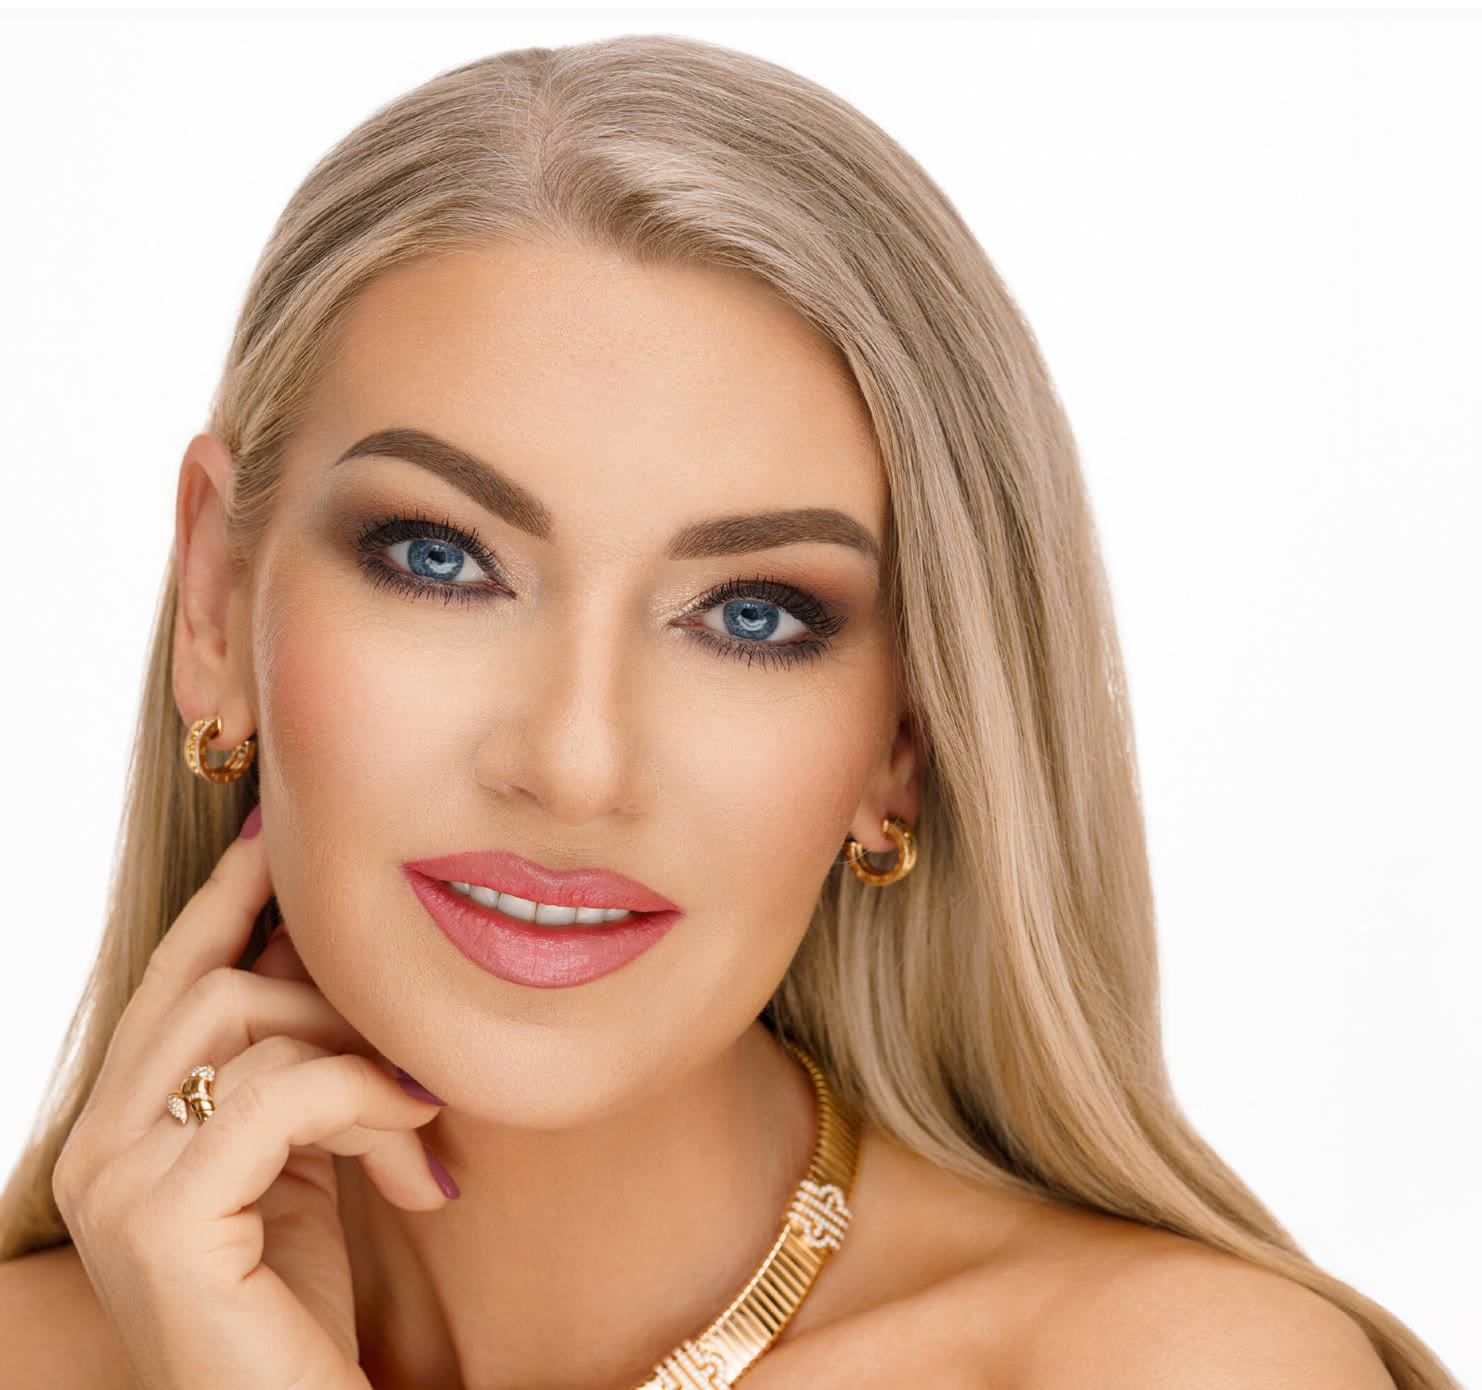
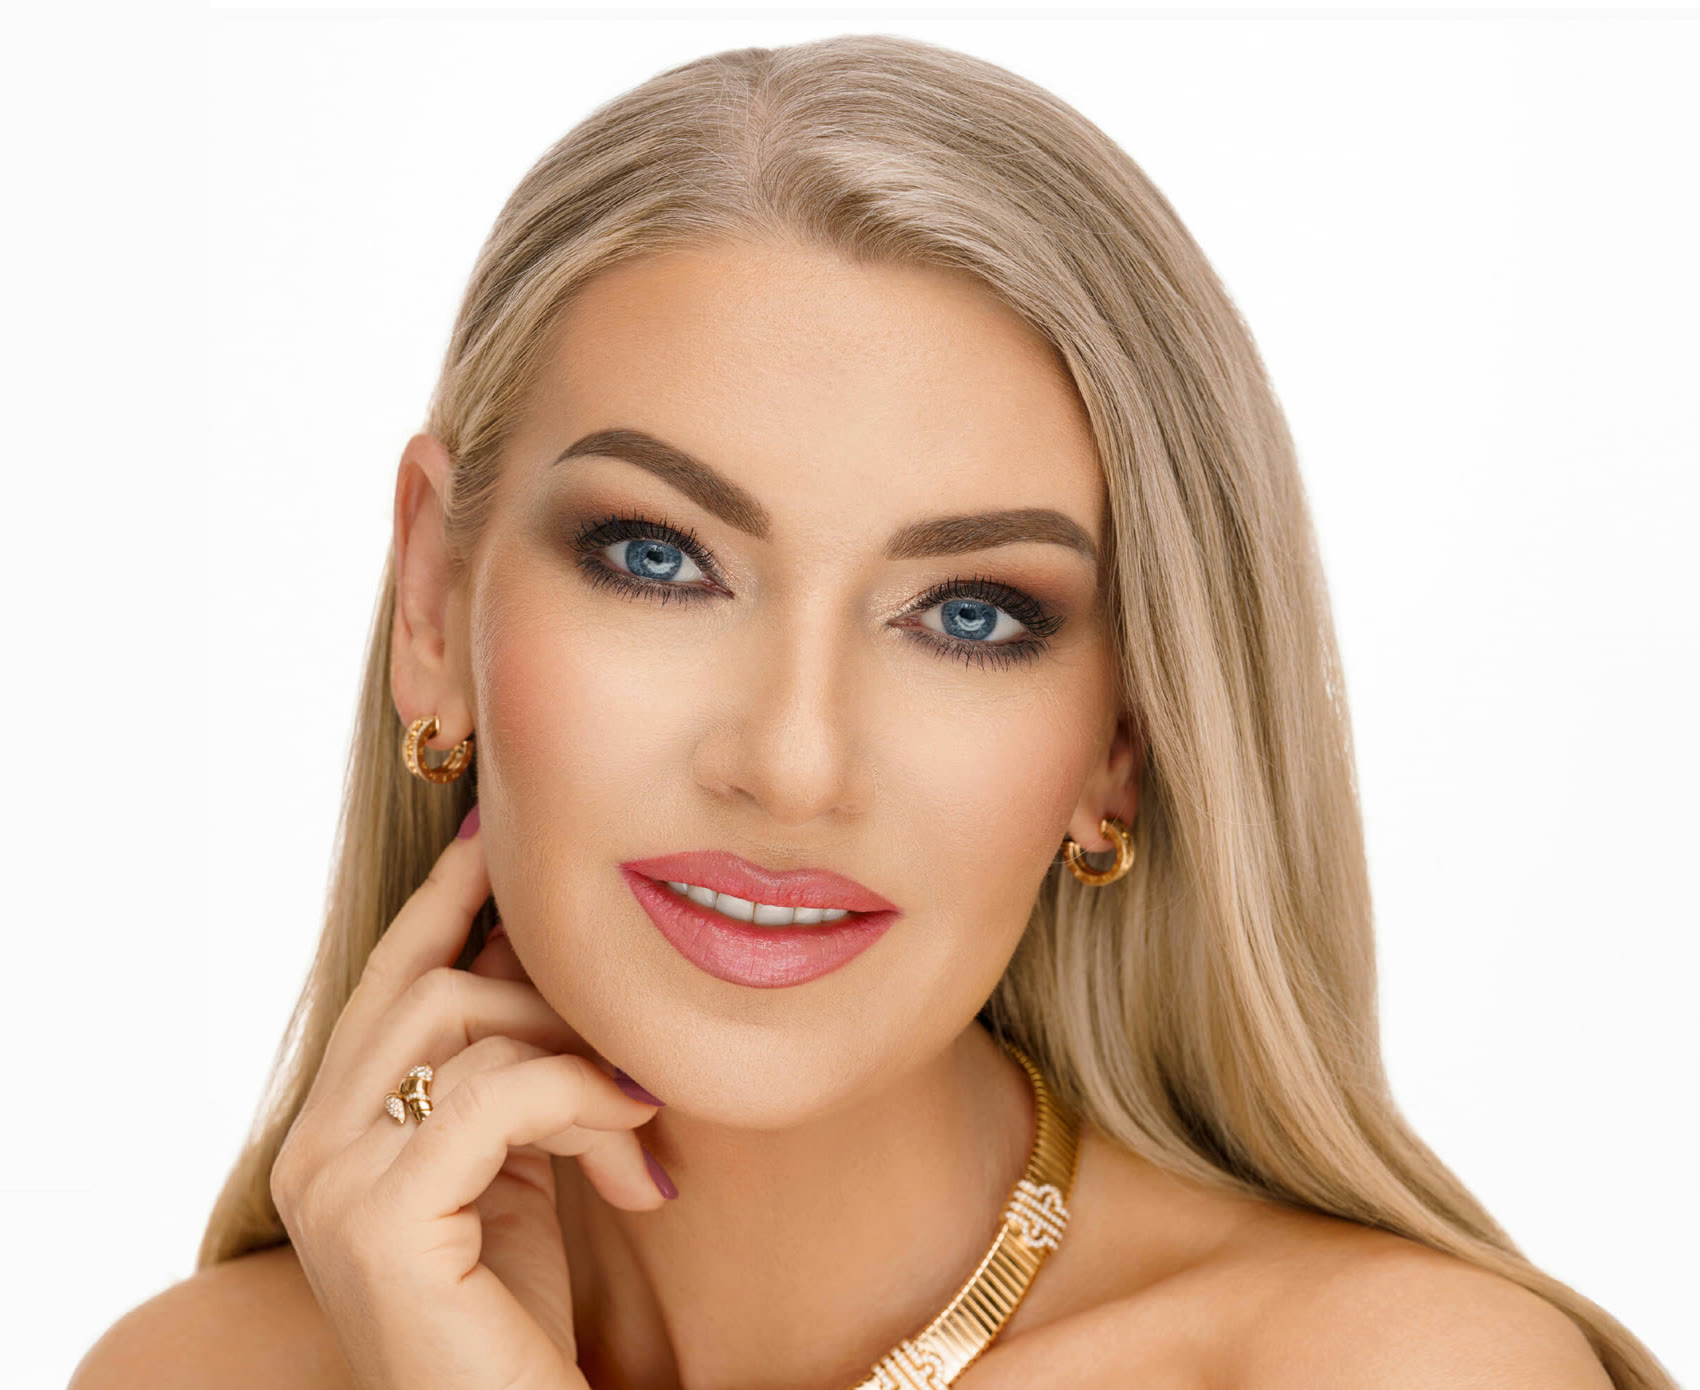
fix(o-lence): portrét posunut doprava, obličej už není u kraje
Nápis „křídla snů“ zamalován barvou studiového pozadí místo ořezu,
takže se do fotky vrátil levý pruh pozadí a obličej se posunul o ~7 % šířky.
Pravý přechod do gradientu zůstává na stejném místě, pod textem beze změny.

diff --git a/index.html b/index.html
@@ -199,16 +199,17 @@
      se gradientem rozlije doprava a přejde do barvy sekce. Fotka i gradient jsou v jedné vrstvě,
      takže je tónuje stejný filtr (jako měl portrét v hero) a dole se rozpustí jednou maskou. */
   .about-band{ position:relative; display:grid; grid-template-columns:minmax(0,48fr) minmax(0,52fr); margin:0 -6vw; }
-  .about-band::before{ content:''; grid-column:1; grid-row:1; aspect-ratio:1482/1390; }
+  /* rezerva výšky = výška fotky (55 % šířky pásu × 1390/1700), aby fotka nikdy nepřetekla pod pás */
+  .about-band::before{ content:''; grid-column:1; grid-row:1; aspect-ratio:48/44.97; }
   /* fotka se doprava rozpouští do bílé a bílá dál plynule slábne — pod textem už je jen jemný opar */
   .about-bg{ position:absolute; top:0; left:0; right:0; pointer-events:none;
     background:linear-gradient(90deg, #fff 0%, #fff 22%, rgba(255,255,255,.86) 30%, rgba(255,255,255,.64) 38%, rgba(255,255,255,.44) 45%, rgba(255,255,255,.29) 51%, rgba(255,255,255,.17) 60%, rgba(255,255,255,.08) 72%, rgba(255,255,255,.03) 86%, rgba(255,255,255,0) 100%);
     filter:grayscale(.42) contrast(1.05) brightness(.74) sepia(.14);
     -webkit-mask-image:linear-gradient(180deg, transparent 0%, rgba(0,0,0,.3) 7%, rgba(0,0,0,.78) 15%, #000 24%, #000 58%, rgba(0,0,0,.45) 80%, transparent 100%);
             mask-image:linear-gradient(180deg, transparent 0%, rgba(0,0,0,.3) 7%, rgba(0,0,0,.78) 15%, #000 24%, #000 58%, rgba(0,0,0,.45) 80%, transparent 100%); }
-  .about-bg img{ display:block; width:48%; height:auto;
-    -webkit-mask-image:linear-gradient(90deg, #000 52%, rgba(0,0,0,.72) 66%, rgba(0,0,0,.36) 82%, transparent 100%);
-            mask-image:linear-gradient(90deg, #000 52%, rgba(0,0,0,.72) 66%, rgba(0,0,0,.36) 82%, transparent 100%); }
+  .about-bg img{ display:block; width:55%; height:auto;
+    -webkit-mask-image:linear-gradient(90deg, #000 58%, rgba(0,0,0,.72) 66%, rgba(0,0,0,.36) 76%, transparent 87%);
+            mask-image:linear-gradient(90deg, #000 58%, rgba(0,0,0,.72) 66%, rgba(0,0,0,.36) 76%, transparent 87%); }
   .about-text{ position:relative; grid-column:2; grid-row:1; padding:clamp(24px,3vw,48px) max(6vw, calc(50vw - 590px)) 0 clamp(28px,3vw,56px); }
   .about-role{ display:block; font-size:11px; letter-spacing:.24em; text-transform:uppercase; color:#c4a468; }
   .about-lead{ margin-top:20px; font-size:clamp(20px,2.3vw,26px); line-height:1.55; color:#f0e8da; }
@@ -558,7 +559,7 @@
 
     <!-- portrét jako pozadí levé poloviny, bílé pozadí fotky se gradientem rozlije doprava -->
     <div class="about-band">
-      <div class="about-bg"><img src="assets/portrait-about.jpg" alt="Portrét sopranistky Lenky Graf" width="1482" height="1390" loading="lazy" decoding="async"></div>
+      <div class="about-bg"><img src="assets/portrait-about.jpg" alt="Portrét sopranistky Lenky Graf" width="1700" height="1390" loading="lazy" decoding="async"></div>
       <div class="about-text">
         <span data-reveal data-i18n="about.role" class="about-role">Sopranistka · Filantropka</span>
         <p data-reveal data-i18n="about.lead" class="about-lead">Lenka Graf je sopranistka a filantropka. Během své pěvecké kariéry se stala ikonou české crossover scény a má za sebou spolupráce se slavnými hudebními producenty a mnoho vystoupení u nás i v zahraničí. Klasická hudba pro ni nikdy nebyla „vážná“, miluje ji od dětství a baví ji hledat nové cesty, jak její krásu přiblížit širšímu publiku.</p>
